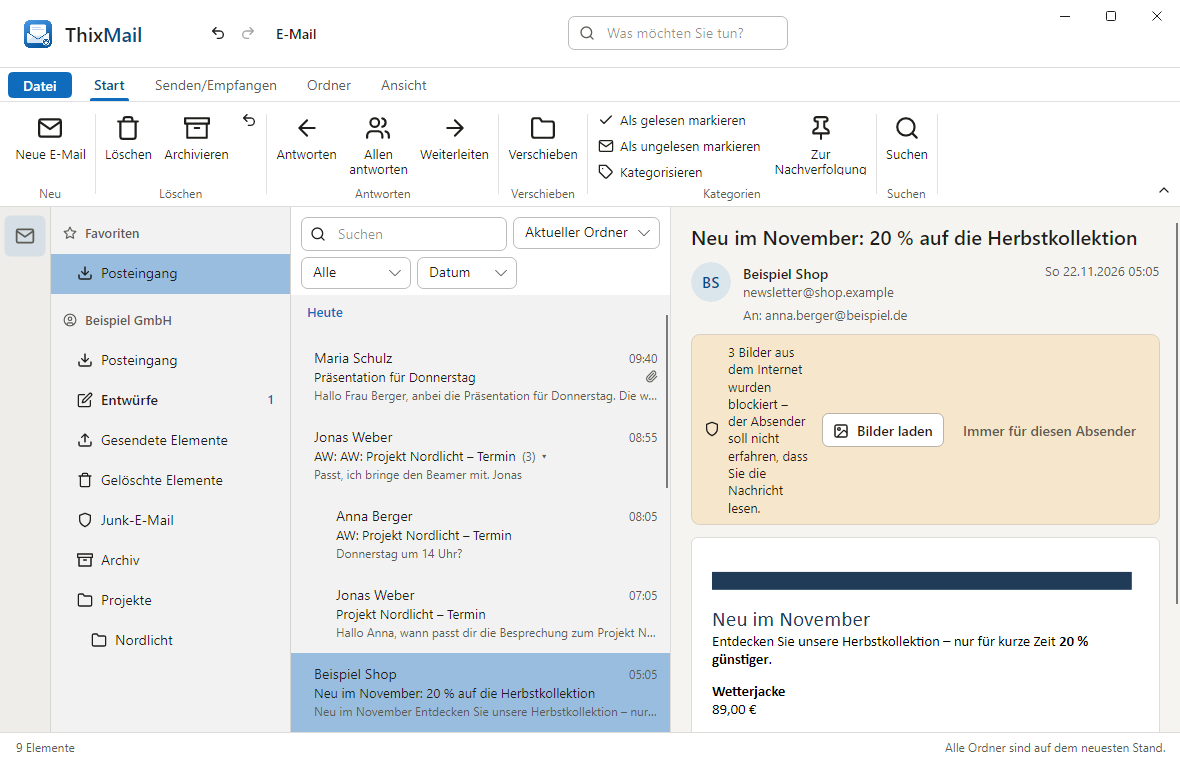
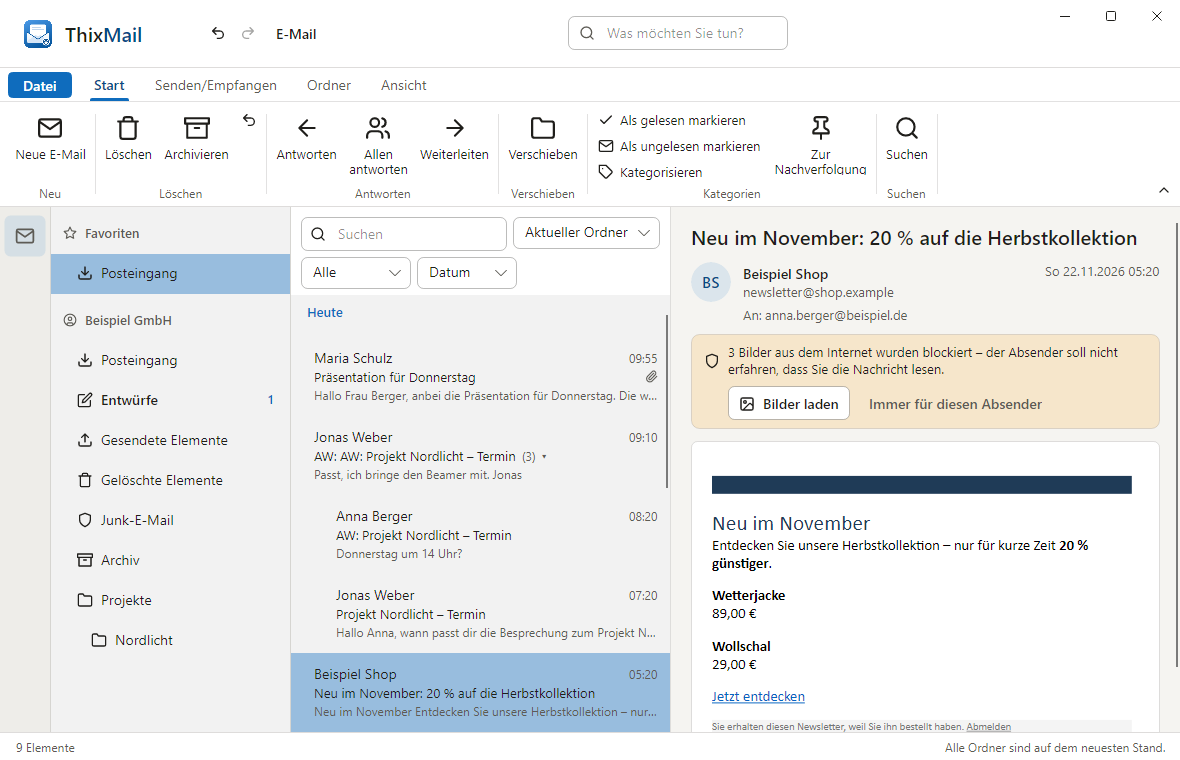
ThixMail: the blocked-pictures bar puts its buttons below the text; README pictures from the current snapshots

Changed region(s): [[0.5797, 0.4539, 1.0, 0.9684], [0.8237, 0.8171, 0.9153, 0.8474]]

diff --git a/src/ThixMail/Editor/MessageView.cs b/src/ThixMail/Editor/MessageView.cs
@@ -85,11 +85,12 @@ public sealed class MessageView : UserControl
         TrustSenderButton = new Button { Content = "Immer für diesen Absender", Padding = new Thickness(10, 3) }.Themed("MatButton.Ghost");
         LoadImagesButton.Click += (_, _) => LoadImagesRequested?.Invoke(this, false);
         TrustSenderButton.Click += (_, _) => LoadImagesRequested?.Invoke(this, true);
-        var imagesRow = new Grid { ColumnDefinitions = new ColumnDefinitions("Auto,*,Auto") };
-        var imagesActions = new StackPanel { Orientation = Orientation.Horizontal, Spacing = 8, Margin = new Thickness(12, 0, 0, 0), VerticalAlignment = VerticalAlignment.Center, Children = { LoadImagesButton, TrustSenderButton } };
+        var imagesRow = new Grid { ColumnDefinitions = new ColumnDefinitions("Auto,*"), RowDefinitions = new RowDefinitions("Auto,Auto") };
+        var imagesActions = new StackPanel { Orientation = Orientation.Horizontal, Spacing = 8, Margin = new Thickness(0, 8, 0, 0), Children = { LoadImagesButton, TrustSenderButton } };
         var shield = new MatIcon { Icon = "shield", Size = 16, Margin = new Thickness(0, 0, 8, 0), VerticalAlignment = VerticalAlignment.Center };
         Grid.SetColumn(_imagesText, 1);
-        Grid.SetColumn(imagesActions, 2);
+        Grid.SetColumn(imagesActions, 1);
+        Grid.SetRow(imagesActions, 1);
         imagesRow.Children.Add(shield);
         imagesRow.Children.Add(_imagesText);
         imagesRow.Children.Add(imagesActions);
